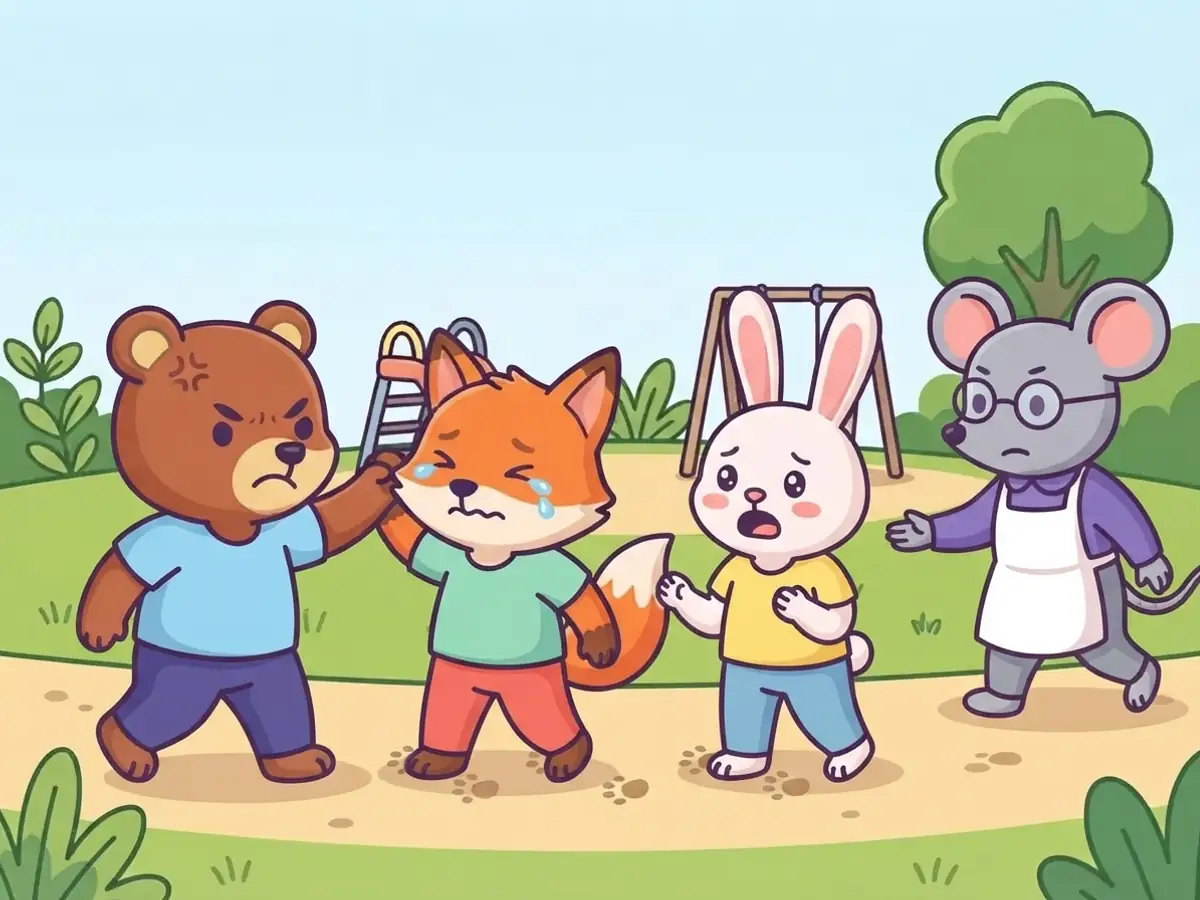
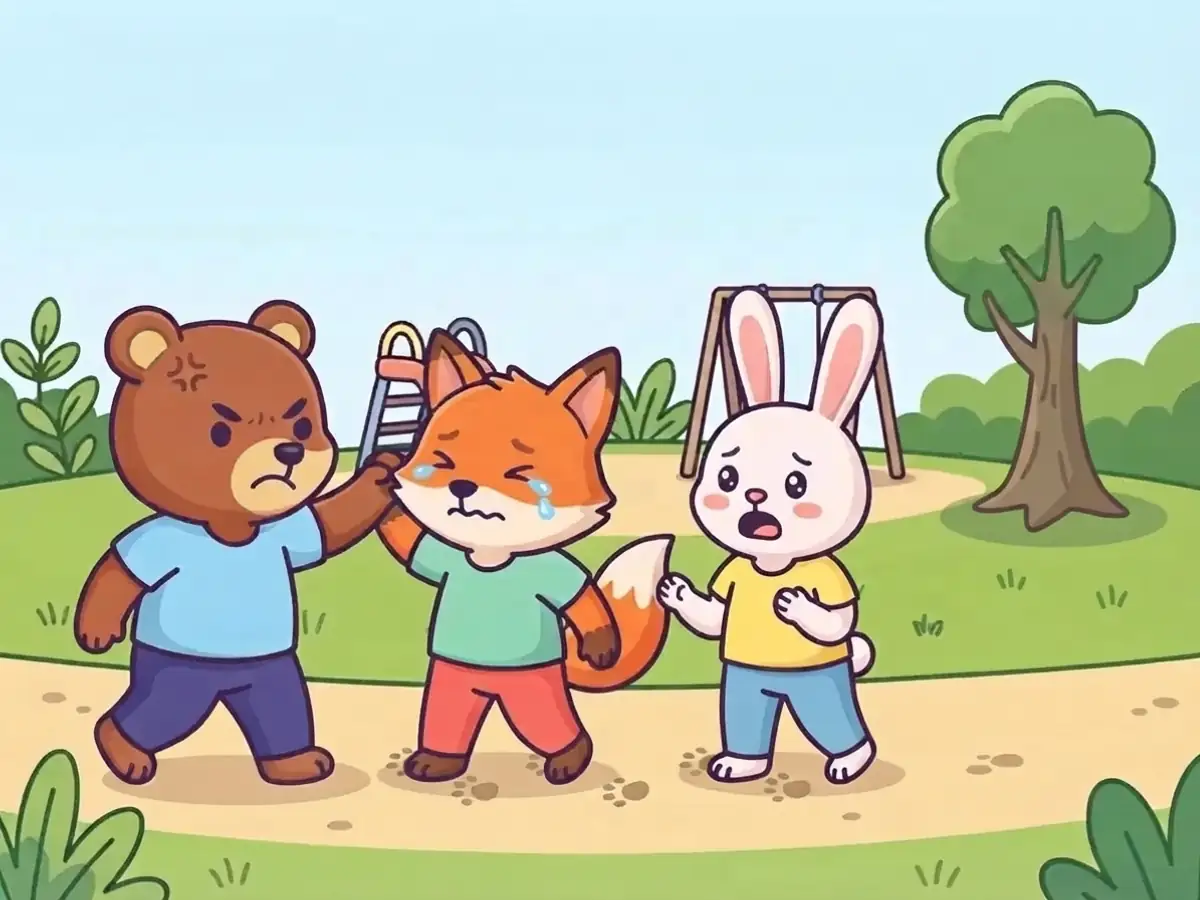
Gefühle: no grown-ups in the pictures before the bear gets help

diff --git a/src/games/feelings/bilder/README.md b/src/games/feelings/bilder/README.md
@@ -85,6 +85,10 @@ Schritte in dieser Reihenfolge), `…-nein` (die nicht so gute Idee neben Schrit
 (alle fröhlich, das Bild am Schluss) – jeweils mit zweitem Frame `…-b`. Neben Schritt 2 und 3
 stehen `…-nein-2` und `…-nein-3` (nur ein Frame; erzeugt mit dem guten Schritt als `--ref`).
 
+Erwachsene (Erzieherin, großer Bär) sind erst im Bild, wenn ein Schritt sie holt oder ruft: kommt „Hilfe
+holen“ erst noch, zeigen `…-passiert` und die Bilder davor nur die Kinder – sonst fragt man sich, warum
+der Bär Hilfe holen soll, wenn sie schon danebensteht. Eine nicht so gute Idee zeigt dieselben Kinder wie die Szene davor.
+
 ### Nicht so gute Ideen bei Schritt 2 und 3
 
 Vor jeden Prompt: Stilblock, Figuren und „This is the not-so-good idea: the action must be clearly
@@ -92,9 +96,9 @@ visible, but gentle – no injuries, no blood. Use the reference only for the ch
 
 | Datei          | Prompt                                                                                                                                                                                                                         |
 | -------------- | ------------------------------------------------------------------------------------------------------------------------------------------------------------------------------------------------------------------------------ |
-| `push-nein-2`  | Playground, grass, a tree. The little bear throws a handful of sand at the fox; the fox covers his eyes and cries.                                                                                                             |
-| `push-nein-3`  | Playground. The little bear angrily stomps on the fox's toy bucket and flattens it. The fox stands next to it and cries.                                                                                                       |
-| `kick-nein-2`  | Playground. The little bear pulls the fox's ear hard, angry face. The fox cries.                                                                                                                                               |
+| `push-nein-2`  | Playground, grass, a tree. Only the little bear and the fox. The little bear throws a handful of sand at the fox; the fox covers his eyes and cries.                                                                           |
+| `push-nein-3`  | Playground. No grown-ups. The little bear angrily stomps on the fox's toy bucket and flattens it. The fox stands next to it and cries.                                                                                         |
+| `kick-nein-2`  | Playground. No grown-ups. The little bear pulls the fox's ear hard, angry face. The fox cries.                                                                                                                                 |
 | `kick-nein-3`  | Playground. Only the little bear and the fox. The little bear has snatched the fox's green cap off his head and throws it away with a big arm swing; the cap flies towards a muddy puddle. The fox reaches after it and cries. |
 | `grab-nein-2`  | Sandbox, a red toy tractor. The little bear hits the fox on the arm to get the tractor back, angry face. The fox cries and still holds the tractor.                                                                            |
 | `grab-nein-3`  | Sandbox. The little bear holds the red toy tractor tight and points away with his other paw, sending the fox away. The fox walks off alone, sad, head down.                                                                    |
@@ -199,16 +203,16 @@ der Trennfarbe am Rand beider Frames gleich wegschneiden, damit sie deckungsglei
 
 ### Hingefallen (`fall`) – Spielplatz, Wiese, ein Baum
 
-| Datei           | Prompt                                                                                                                                                               |
-| --------------- | -------------------------------------------------------------------------------------------------------------------------------------------------------------------- |
-| `fall-passiert` | The little bear has fallen down while running: he sits on the grass and holds his knee, crying. A small red scrape on the knee, no blood.                            |
-| `fall-1`        | „Hilfe rufen“ – The little bear sits on the grass, holds his knee and calls out loud with one paw raised. The teacher comes running towards him.                     |
-| `fall-2`        | „Pflaster drauf“ – The teacher kneels and puts a colourful plaster on the little bear's knee. The bear watches, calmer, sniffing.                                    |
-| `fall-3`        | „Langsam weiterspielen“ – The fox helps the little bear up with his paw; the bear has a plaster on his knee. They roll a ball to each other, slowly and carefully.   |
-| `fall-nein`     | „Strampeln und schreien“ – The little bear lies on the grass in a big tantrum, kicking his legs and screaming, while the teacher stands next to him and cannot help. |
-| `fall-nein-2`   | The little bear pulls the plaster off his knee and makes an ouch face. The teacher looks worried.                                                                    |
-| `fall-nein-3`   | The little bear with a plaster on his knee runs wildly and fast again and is about to trip over a root. The fox looks worried.                                       |
-| `fall-ende`     | The little bear proudly shows his colourful plaster on the knee and laughs; the fox and the teacher smile.                                                           |
+| Datei           | Prompt                                                                                                                                                                                                                                    |
+| --------------- | ----------------------------------------------------------------------------------------------------------------------------------------------------------------------------------------------------------------------------------------- |
+| `fall-passiert` | No grown-ups. The little bear has fallen down while running: he sits on the grass and holds his knee, crying. A small red scrape on the knee, no blood. The fox, the bunny and the little hedgehog stand around him, worried.             |
+| `fall-1`        | „Hilfe rufen“ – The little bear sits on the grass, holds his knee and calls out loud with one paw raised. The teacher comes running towards him.                                                                                          |
+| `fall-2`        | „Pflaster drauf“ – The teacher kneels and puts a colourful plaster on the little bear's knee. The bear watches, calmer, sniffing.                                                                                                         |
+| `fall-3`        | „Langsam weiterspielen“ – The fox helps the little bear up with his paw; the bear has a plaster on his knee. They roll a ball to each other, slowly and carefully.                                                                        |
+| `fall-nein`     | „Strampeln und schreien“ – Same scene and children as `fall-passiert` (`--ref`), no grown-ups. The little bear lies on the grass in a big tantrum, kicking his legs and screaming; the fox, the bunny and the hedgehog look on, helpless. |
+| `fall-nein-2`   | The little bear pulls the plaster off his knee and makes an ouch face. The teacher looks worried.                                                                                                                                         |
+| `fall-nein-3`   | The little bear with a plaster on his knee runs wildly and fast again and is about to trip over a root. The fox looks worried.                                                                                                            |
+| `fall-ende`     | The little bear proudly shows his colourful plaster on the knee and laughs; the fox and the teacher smile.                                                                                                                                |
 
 ### Hört nicht auf (`stop`) – Spielplatz, Wiese, ein Baum
 
